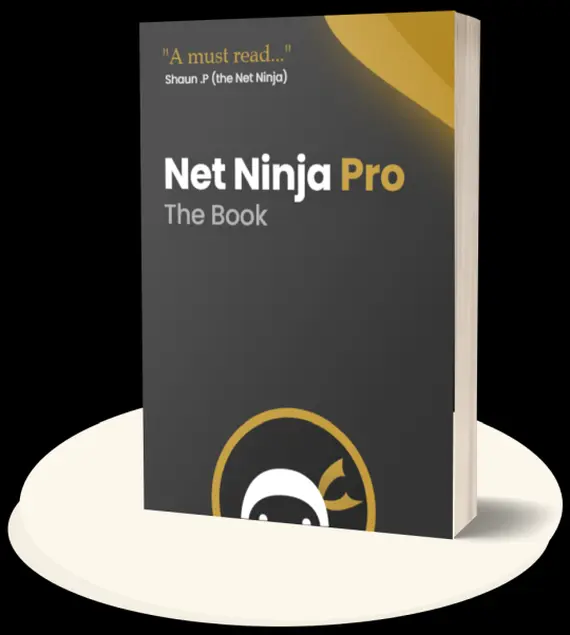
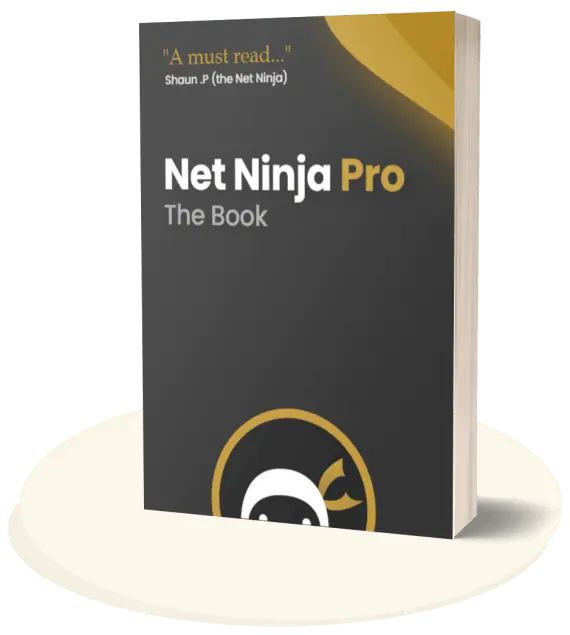
initial Html Intro Section

diff --git a/index.html b/index.html
@@ -11,9 +11,62 @@
     />
 
     <title>Net Ninja Pro - the Book</title>
+    <style>
+      section {
+        padding: 60px 0;
+      }
+    </style>
   </head>
   <body>
-    <h1>Net Ninja Pro - the Book</h1>
+    <!-- navbar -->
+
+    <!-- main image & intro text -->
+
+    <section id="intro">
+      <div class="container-lg">
+        <div class="row g-4 justify-content-center align-items-center">
+          <div class="col-md-5 text-center text-md-start">
+            <h1>
+              <div class="display-2">Black-Belt</div>
+              <div class="display-5 text-muted">Your Coding Skills</div>
+            </h1>
+            <p class="lead my-4 text-muted">
+              Lorem ipsum dolor sit amet consectetur adipisicing elit.
+              Laboriosam, dignissimos?
+            </p>
+            <a href="#pricing" class="btn btn-secondary btn-lg">Buy Now</a>
+          </div>
+          <div class="col-md-5 text-center d-none d-md-block">
+            <picture>
+              <source
+                type="image/webp"
+                srcset="
+                  assets/ebook-cover.webp    1x,
+                  assets/ebook-cover@2x.webp 2x
+                " />
+              <source
+                type="image/png"
+                srcset="
+                  assets/ebook-cover.png    1x,
+                  assets/ebook-cover@2x.png 2x
+                " />
+              <img src="assets/ebook-cover.png" class="img-fluid" alt="ebook"
+            /></picture>
+          </div>
+        </div>
+      </div>
+    </section>
+
+    <!-- pricing plans -->
+
+    <!-- topics at a glance -->
+
+    <!-- reviews list -->
+
+    <!-- contact form -->
+
+    <!-- get updates / modal trigger -->
+
     <script
       src="https://cdn.jsdelivr.net/npm/bootstrap@5.2.3/dist/js/bootstrap.bundle.min.js"
       integrity="sha384-kenU1KFdBIe4zVF0s0G1M5b4hcpxyD9F7jL+jjXkk+Q2h455rYXK/7HAuoJl+0I4"
